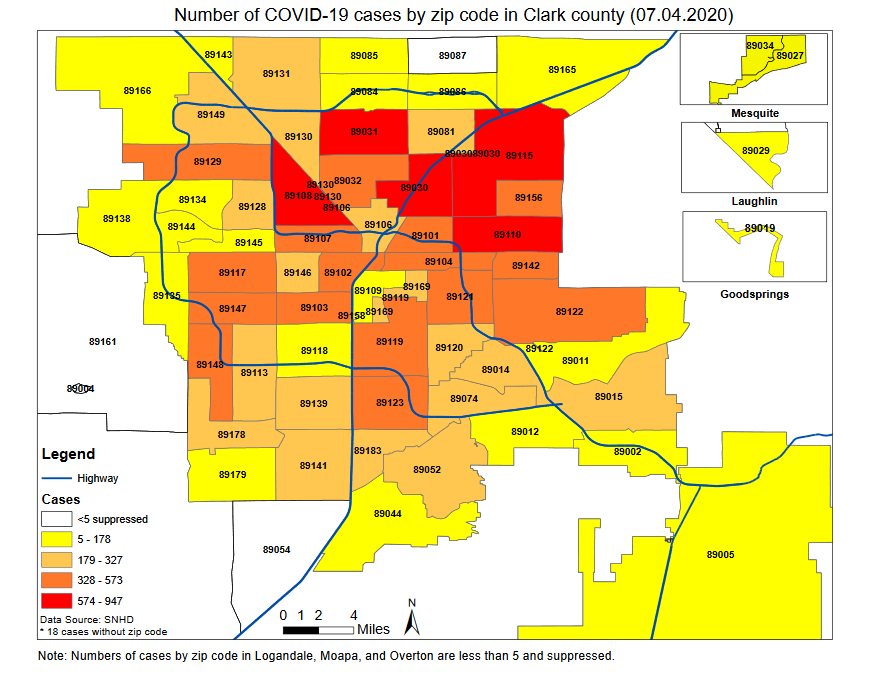
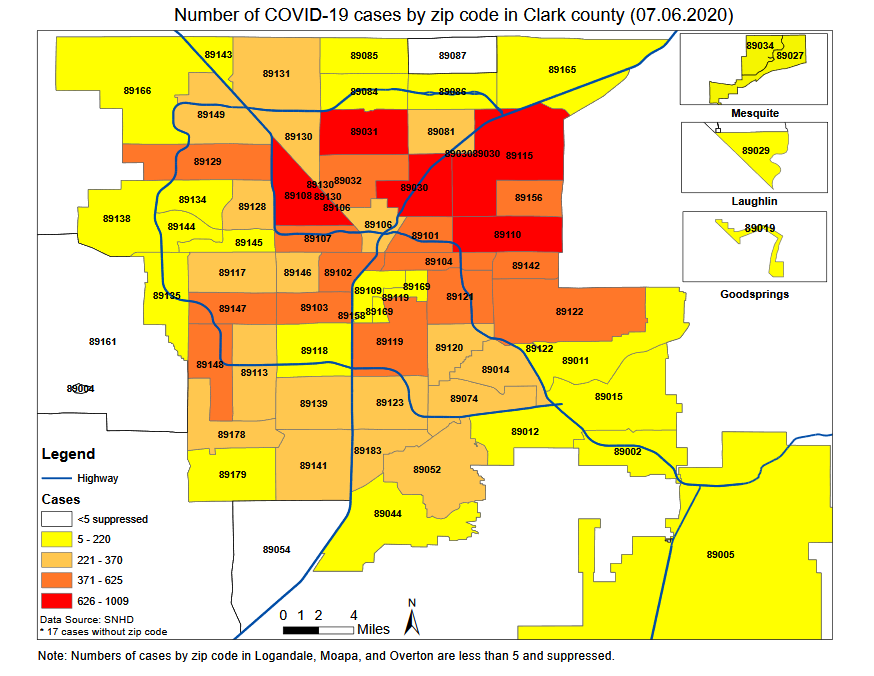
Day 125

diff --git a/src/pages/clarkcounty.js b/src/pages/clarkcounty.js
@@ -140,6 +140,7 @@ class ClarkPage extends Component {
 				'7/03/20',
 				'7/04/20',
 				'7/05/20',
+				'7/06/20',
 			],
 			datasets: [
 				{
@@ -270,6 +271,7 @@ class ClarkPage extends Component {
 						17707,
 						18442,
 						18818,
+						19654,
 					],
 				},
 			],
@@ -401,6 +403,7 @@ class ClarkPage extends Component {
 				'7/03/20',
 				'7/04/20',
 				'7/05/20',
+				'7/06/20',
 			],
 			datasets: [
 				{
@@ -531,6 +534,7 @@ class ClarkPage extends Component {
 						679,
 						735,
 						376,
+						836,
 					],
 				},
 			],
@@ -642,6 +646,7 @@ class ClarkPage extends Component {
 				'7/03/20',
 				'7/04/20',
 				'7/05/20',
+				'7/06/20',
 			],
 			datasets: [
 				{
@@ -752,6 +757,7 @@ class ClarkPage extends Component {
 						2064,
 						2064,
 						2071,
+						2108,
 					],
 				},
 			],
@@ -862,6 +868,7 @@ class ClarkPage extends Component {
 				'7/03/20',
 				'7/04/20',
 				'7/05/20',
+				'7/06/20',
 			],
 			datasets: [
 				{
@@ -972,6 +979,7 @@ class ClarkPage extends Component {
 						6,
 						0,
 						7,
+						37,
 					],
 				},
 			],
@@ -1103,6 +1111,7 @@ class ClarkPage extends Component {
 				'7/03/20',
 				'7/04/20',
 				'7/05/20',
+				'7/06/20',
 			],
 			datasets: [
 				{
@@ -1232,6 +1241,7 @@ class ClarkPage extends Component {
 						435,
 						439,
 						439,
+						450,
 					],
 					backgroundColor: 'maroon',
 				},
@@ -1352,6 +1362,7 @@ class ClarkPage extends Component {
 				'7/03/20',
 				'7/04/20',
 				'7/05/20',
+				'7/06/20',
 			],
 			datasets: [
 				{
@@ -1470,6 +1481,7 @@ class ClarkPage extends Component {
 						0,
 						4,
 						0,
+						11,
 					],
 				},
 			],
@@ -1601,6 +1613,7 @@ class ClarkPage extends Component {
 				'7/03/20',
 				'7/04/20',
 				'7/05/20',
+				'7/06/20',
 			],
 			datasets: [
 				{
@@ -1722,16 +1735,17 @@ class ClarkPage extends Component {
 						10.8,
 						10.9,
 						11.3,
-						11.9,
-						12.3,
-						12.6,
+						12.0,
+						12.4,
+						12.7,
+						13.2,
+						13.2,
 						13.1,
 						13.0,
 						12.8,
-						12.8,
-						12.6,
-						13.6,
-						13.6,
+						12.7,
+						13.1,
+						12.4,
 					],
 				},
 				{
@@ -1807,6 +1821,7 @@ class ClarkPage extends Component {
 						null,
 						null,
 						null,
+						6.9,
 						6.9,
 						6.9,
 						6.9,
@@ -1999,6 +2014,7 @@ class ClarkPage extends Component {
 						3.9,
 						3.9,
 						3.9,
+						3.9,
 					],
 				},
 			],
@@ -2009,7 +2025,7 @@ class ClarkPage extends Component {
 			datasets: [
 				{
 					label: 'Age of Cases',
-					data: [333, 1213, 2208, 8976, 3819, 2263],
+					data: [355, 1268, 2327, 9420, 3962, 2313],
 					backgroundColor: [
 						'rgb(54, 162, 235)', //blue
 						'rgb(255, 99, 132)', //salmon
@@ -2027,7 +2043,7 @@ class ClarkPage extends Component {
 			datasets: [
 				{
 					label: 'Sex',
-					data: [9642, 9004, 172],
+					data: [10053, 9430, 171],
 					backgroundColor: [
 						'rgb(255, 99, 132)',
 						'rgb(54, 162, 235)',
@@ -2069,7 +2085,7 @@ class ClarkPage extends Component {
 											</div>
 										</div>
 										<div className='card-value pt-4'>
-											<h1>18,818</h1>
+											<h1>19,564</h1>
 										</div>
 									</div>
 								</div>
@@ -2081,7 +2097,7 @@ class ClarkPage extends Component {
 											</div>
 										</div>
 										<div className='card-value pt-4'>
-											<h1>2,071</h1>
+											<h1>2,108</h1>
 										</div>
 									</div>
 								</div>
@@ -2093,7 +2109,7 @@ class ClarkPage extends Component {
 											</div>
 										</div>
 										<div className='card-value pt-4'>
-											<h1>60.2%</h1>
+											<h1>60.4%</h1>
 										</div>
 									</div>
 								</div>
@@ -2105,7 +2121,7 @@ class ClarkPage extends Component {
 											</div>
 										</div>
 										<div className='card-value pt-4'>
-											<h1>439</h1>
+											<h1>450</h1>
 										</div>
 									</div>
 								</div>

diff --git a/src/pages/nevada.js b/src/pages/nevada.js
@@ -135,6 +135,7 @@ class NevadaPage extends Component {
 				'7/03/20',
 				'7/04/20',
 				'7/05/20',
+				'7/06/20',
 			],
 			datasets: [
 				{
@@ -264,6 +265,7 @@ class NevadaPage extends Component {
 						21575,
 						22418,
 						22909,
+						23785,
 					],
 					fill: false, // Don't fill area under the line
 					backgroundColor: '#933A16', // Line color
@@ -396,6 +398,7 @@ class NevadaPage extends Component {
 				'7/03/20',
 				'7/04/20',
 				'7/05/20',
+				'7/06/20',
 			],
 			datasets: [
 				{
@@ -526,6 +529,7 @@ class NevadaPage extends Component {
 						857,
 						843,
 						491,
+						876,
 					],
 					fill: false, // Don't fill area under the line
 					backgroundColor: '#933A16', // Bar color
@@ -658,6 +662,7 @@ class NevadaPage extends Component {
 				'7/03/20',
 				'7/04/20',
 				'7/05/20',
+				'7/06/20',
 			],
 			datasets: [
 				{
@@ -776,17 +781,18 @@ class NevadaPage extends Component {
 						502,
 						503,
 						506,
-						507,
-						510,
-						516,
-						520,
-						524,
-						526,
+						508,
+						513,
+						519,
+						523,
+						528,
 						531,
-						533,
-						534,
-						535,
-						536,
+						537,
+						539,
+						541,
+						544,
+						546,
+						547,
 					],
 					backgroundColor: 'maroon',
 				},
@@ -907,6 +913,7 @@ class NevadaPage extends Component {
 				'7/03/20',
 				'7/04/20',
 				'7/05/20',
+				'7/06/20',
 			],
 			datasets: [
 				{
@@ -1014,16 +1021,17 @@ class NevadaPage extends Component {
 						2,
 						1,
 						3,
-						1,
-						3,
-						6,
-						4,
-						4,
 						2,
 						5,
+						6,
+						4,
+						5,
+						3,
+						6,
 						2,
-						1,
-						1,
+						2,
+						3,
+						2,
 						1,
 					],
 				},
@@ -1136,6 +1144,7 @@ class NevadaPage extends Component {
 				'7/03/20',
 				'7/04/20',
 				'7/05/20',
+				'7/06/20',
 			],
 			datasets: [
 				{
@@ -1248,6 +1257,7 @@ class NevadaPage extends Component {
 						7.2,
 						7.3,
 						7.4,
+						7.6,
 					],
 				},
 				{
@@ -1360,6 +1370,7 @@ class NevadaPage extends Component {
 						15.1,
 						14.3,
 						14.1,
+						14.9,
 					],
 				},
 				{
@@ -1415,6 +1426,7 @@ class NevadaPage extends Component {
 						null,
 						null,
 						null,
+						10.4,
 						10.4,
 						10.4,
 						10.4,
@@ -1586,6 +1598,7 @@ class NevadaPage extends Component {
 						6.0,
 						6.0,
 						6.0,
+						6.0,
 					],
 				},
 			],
@@ -1621,7 +1634,7 @@ class NevadaPage extends Component {
 										</div>
 									</div>
 									<div className='card-value pt-4'>
-										<h1>309,995</h1>
+										<h1>314,928</h1>
 									</div>
 								</div>
 							</div>
@@ -1633,7 +1646,7 @@ class NevadaPage extends Component {
 										</div>
 									</div>
 									<div className='card-value pt-4'>
-										<h1>288,572</h1>
+										<h1>292,761</h1>
 									</div>
 								</div>
 							</div>
@@ -1645,7 +1658,7 @@ class NevadaPage extends Component {
 										</div>
 									</div>
 									<div className='card-value pt-4'>
-										<h1>22,909</h1>
+										<h1>23,785</h1>
 									</div>
 								</div>
 							</div>
@@ -1657,7 +1670,7 @@ class NevadaPage extends Component {
 										</div>
 									</div>
 									<div className='card-value pt-4'>
-										<h1>536</h1>
+										<h1>547</h1>
 									</div>
 								</div>
 							</div>
